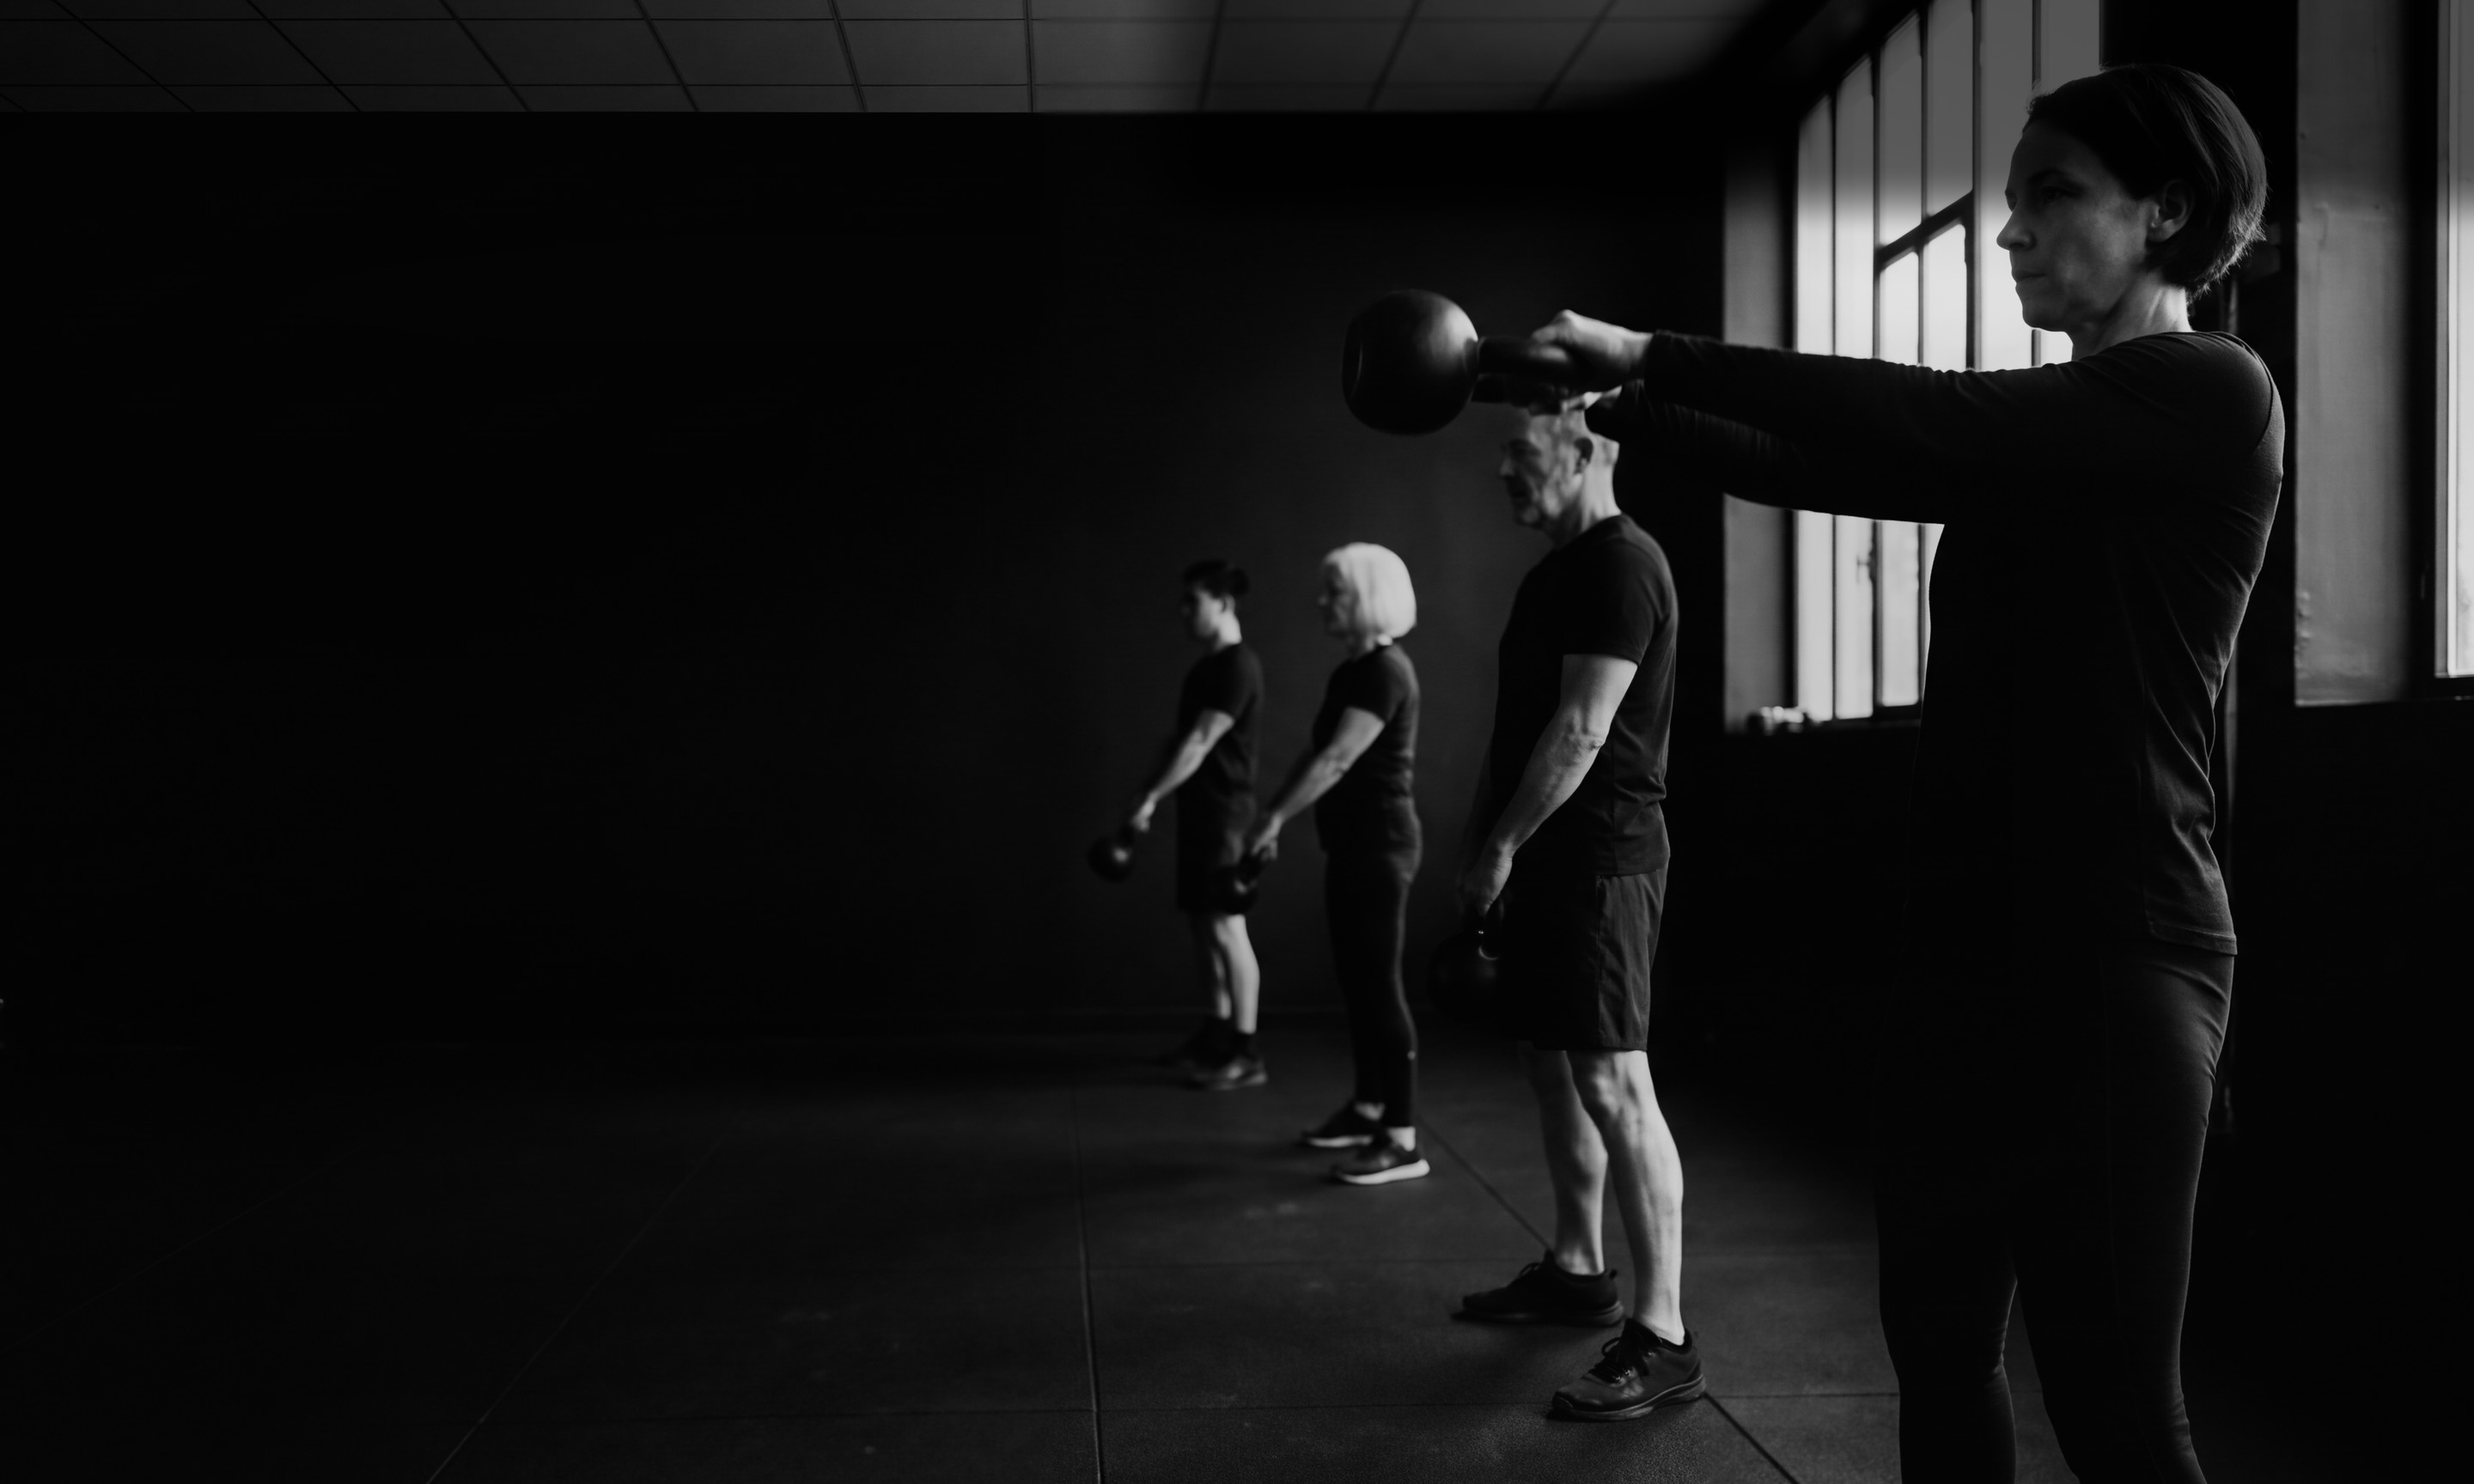
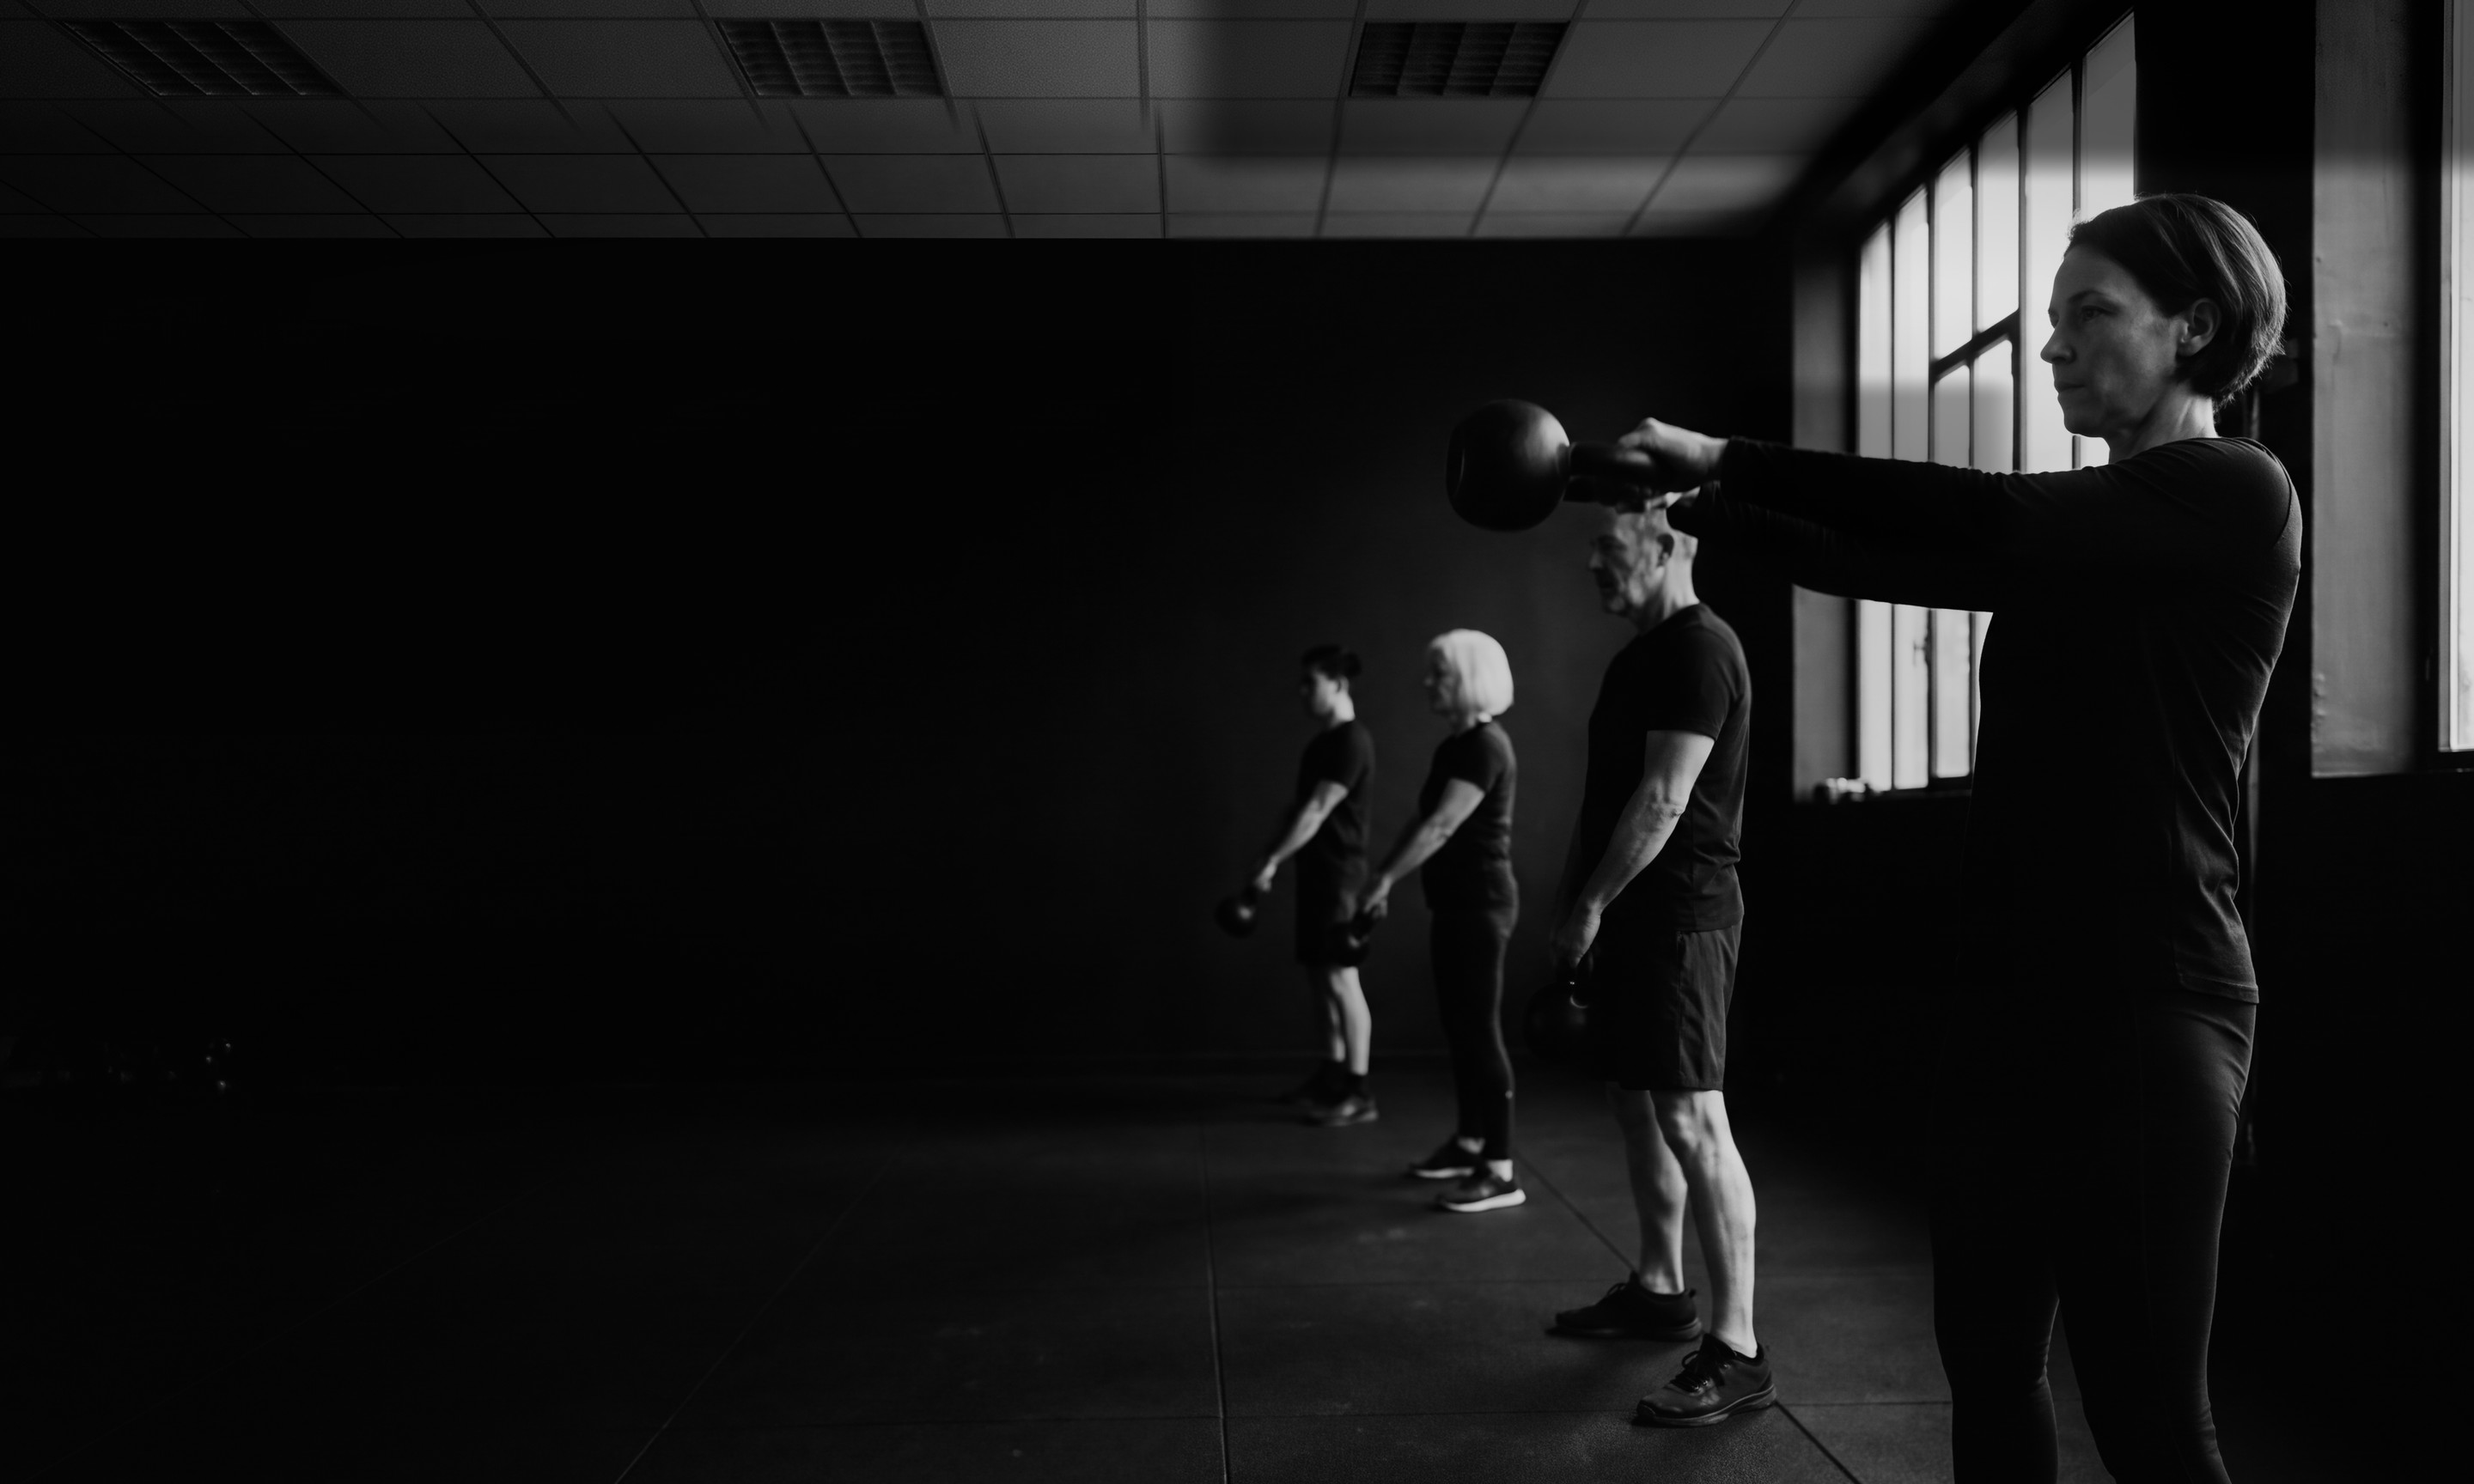
art(v2): couverture agrandie par le haut, la tête de la coach sort de l'en-tête
Le bouton « Réserve ta place » de l'en-tête coiffait le crâne de la
coach (constat 12). La plaque est agrandie, sans toucher au CSS : 175 px
de plafond en haut et 292 px réels du brut à gauche, rien coupé en bas.

- art/v2/extend.py compose un brut étendu : les pixels du brut partout
  où il en a, la bande du plafond venue de l'outpaint Higgsfield (deux
  passes, art/v2/manifest.json), recalée (--recaler) et ramenée aux
  tons du brut.
- grade.py lit ce brut (Plate.raw) ; deux brûlages documentés : le haut
  sous l'en-tête et le bas des carreaux sous « CUN » (contour citron
  sous 3:1 sur 0,1 % de ses pixels à 1280 × 800, 0 % à 1440, 1920, 390).
- Toutes les plaques passent grade.py --check.

Claude-Session: https://claude.ai/code/session_01AhYA5krWXo9diKkGLVMb6D

diff --git a/art/v2/extend.py b/art/v2/extend.py
@@ -1,0 +1,176 @@
+"""
+Agrandissement de la plaque de couverture par le haut (brief §3.2 : « sinon
+régénérer l'image ») : le crâne de la coach passait sous l'en-tête et le bouton
+« Réserve ta place » la coiffait.
+
+    python3 art/v2/extend.py <dossier-des-PNG-bruts> [--recaler <ancienne-plaque.jpg>]
+    python3 art/v2/grade.py <dossier-des-PNG-bruts> --only cap-couverture
+
+`--recaler` recherche l'échelle et le décalage de l'extension sur l'ancienne
+plaque (comparaison des gradients, de 1/4 à la pleine définition) et les affiche :
+ce sont les constantes S, OX, OY ci-dessous.
+
+Entrées, dans le dossier des bruts (non versionné, comme les autres bruts) :
+- cap-couverture.png : le brut Higgsfield d'origine (5504 × 3072) ;
+- cap-couverture.outpaint.png : la plaque livrée (art/masters/v2/cap-couverture.jpg,
+  avant agrandissement) étendue par l'outpaint de Higgsfield, en deux passes :
+  5:3 vers 4:3, puis 4:3 vers 16:9 (art/v2/manifest.json).
+
+Sortie : cap-couverture.etendu.png, que grade.py lit à la place du brut. Les
+pixels du brut sont gardés partout où il en a (y compris ses 300 px réels à gauche
+de l'ancien cadre) ; l'extension ne fournit que la bande du plafond, au-dessus,
+ramenée aux tons du brut (correspondance de quantiles sur la zone commune) et
+fondue sur 96 px. Le cadre final garde la plaque en 5:3 : 175 px de plafond en
+haut, 292 px à gauche (unités de l'ancienne plaque 2880 × 1728), rien coupé en bas.
+"""
+from __future__ import annotations
+
+import sys
+from pathlib import Path
+
+import numpy as np
+from PIL import Image, ImageFilter
+
+LUMA = np.array([0.2126, 0.7152, 0.0722])
+
+
+def to_linear(c):
+    return np.where(c <= 0.04045, c / 12.92, ((c + 0.055) / 1.055) ** 2.4)
+
+
+def to_srgb(y):
+    return np.where(y <= 0.0031308, 12.92 * y, 1.055 * np.power(np.clip(y, 0, 1), 1 / 2.4) - 0.055)
+
+
+# Ancienne plaque dans le brut : crop_box(5504, 3072, inset 92, 5:3, focal (0,80 ; 0,45)).
+OLD_BOX = (599, 92, 5412, 2980)
+OLD_SIZE = (2880, 1728)
+# Extension recalée sur l'ancienne plaque (--recaler, à 1 px près) :
+# ext_x = OX + S · plaque_x, ext_y = OY + S · plaque_y.
+S, OX, OY = 0.7426, 430, 179
+# Ajouts, en pixels de l'ancienne plaque.
+TOP, LEFT = 175, 292
+# Fondu entre l'extension et le brut, en pixels du brut, au-dessus du cadre d'origine.
+FEATHER = 96
+
+
+def compose(raw_dir: Path) -> Path:
+    raw = np.asarray(Image.open(raw_dir / "cap-couverture.png").convert("RGB"), dtype=np.float64) / 255
+    ext_img = Image.open(raw_dir / "cap-couverture.outpaint.png").convert("L")
+    rh, rw = raw.shape[:2]
+    k = (OLD_BOX[2] - OLD_BOX[0]) / OLD_SIZE[0]  # pixels du brut par pixel de plaque
+
+    # Cadre voulu, dans le brut, puis la marge que grade.py rognera (3 % du petit côté).
+    fw = round((OLD_SIZE[0] + LEFT) * k)
+    fh = round((OLD_SIZE[1] + TOP) * k)
+    margin = round(0.03 * fh)
+    while margin != round(0.03 * (fh + 2 * margin)):  # inset de grade.py sur le canevas
+        margin = round(0.03 * (fh + 2 * margin))
+    x0 = OLD_BOX[0] - round(LEFT * k) - margin
+    y0 = OLD_BOX[1] - round(TOP * k) - margin
+    cw, ch = fw + 2 * margin, fh + 2 * margin
+
+    # Extension, rééchantillonnée dans la géométrie du canevas (unités du brut).
+    # Canevas (cx, cy) → plaque ((x0 + cx − OLD_BOX[0]) / k, …) → extension.
+    scale = S / k
+    ex0 = OX + (x0 - OLD_BOX[0]) / k * S
+    ey0 = OY + (y0 - OLD_BOX[1]) / k * S
+    ext = ext_img.transform(
+        (cw, ch), Image.AFFINE, (scale, 0, ex0, 0, scale, ey0), resample=Image.BICUBIC
+    )
+    ext = np.asarray(ext, dtype=np.float64) / 255
+
+    # Brut dans le canevas (gris pour la correspondance des tons, couleur pour la sortie).
+    canvas = np.zeros((ch, cw, 3))
+    have = np.zeros((ch, cw), dtype=bool)
+    sx0, sy0 = max(x0, 0), max(y0, 0)
+    sx1, sy1 = min(x0 + cw, rw), min(y0 + ch, rh)
+    canvas[sy0 - y0:sy1 - y0, sx0 - x0:sx1 - x0] = raw[sy0:sy1, sx0:sx1]
+    have[sy0 - y0:sy1 - y0, sx0 - x0:sx1 - x0] = True
+
+    # Tons : quantiles de l'extension ramenés à ceux du brut, sur l'ancienne plaque.
+    oy0, oy1 = OLD_BOX[1] - y0, OLD_BOX[3] - y0
+    ox0, ox1 = OLD_BOX[0] - x0, OLD_BOX[2] - x0
+    raw_l = to_srgb(to_linear(canvas[oy0:oy1, ox0:ox1]) @ LUMA).ravel()  # comme grade_nuit
+    ext_l = ext[oy0:oy1, ox0:ox1].ravel()
+    qs = np.linspace(0, 100, 257)
+    mapped = np.interp(ext, np.percentile(ext_l, qs), np.percentile(raw_l, qs))
+    fill = np.repeat(mapped[..., None], 3, axis=2)
+
+    # Le brut partout où il existe, l'extension au-dessus, fondue sur FEATHER px
+    # depuis le haut du brut (sa première ligne réelle), et sur ses bords manquants.
+    alpha = have.astype(np.float64)
+    top_rows = np.clip((np.arange(ch) - (sy0 - y0)) / FEATHER, 0, 1)
+    alpha *= top_rows[:, None]
+    alpha = np.asarray(
+        Image.fromarray((alpha * 255).astype(np.uint8)).filter(ImageFilter.GaussianBlur(2)),
+        dtype=np.float64,
+    ) / 255
+    alpha = np.where(have, alpha, 0)[..., None]
+    out = canvas * alpha + fill * (1 - alpha)
+
+    target = raw_dir / "cap-couverture.etendu.png"
+    Image.fromarray((np.clip(out, 0, 1) * 255).round().astype(np.uint8)).save(target)
+    print(f"{target}  {cw} × {ch}  (cadre {fw} × {fh}, marge {margin})")
+    return target
+
+
+def _grad(a: np.ndarray) -> np.ndarray:
+    return np.abs(np.diff(a, axis=1))[:-1, :] + np.abs(np.diff(a, axis=0))[:, :-1]
+
+
+def _search(old: Image.Image, ext: Image.Image, scales, oys, oxs, f: int, keep: int = 1):
+    """Les `keep` meilleurs (erreur, s, ox, oy) : ext[oy:, ox:] ≈ old · s, comparés à 1/f."""
+    eg = _grad(np.asarray(ext.resize((round(ext.width / f), round(ext.height / f)), Image.LANCZOS), dtype=np.float32))
+    found = []
+    for s in scales:
+        w, h = round(old.width * s / f), round(old.height * s / f)
+        og = _grad(np.asarray(old.resize((w, h), Image.LANCZOS), dtype=np.float32))
+        og = og / (og.mean() + 1e-6)
+        for oy in oys:
+            for ox in oxs:
+                y, x = round(oy / f), round(ox / f)
+                if x < 0 or y < 0 or x + og.shape[1] > eg.shape[1] or y + og.shape[0] > eg.shape[0]:
+                    continue
+                p = eg[y:y + og.shape[0], x:x + og.shape[1]]
+                found.append((float(np.mean(np.abs(p / (p.mean() + 1e-6) - og))), float(s), ox, oy))
+    found.sort()
+    # Un candidat par voisinage : les suivants doivent différer d'au moins 24 px ou 1 %.
+    picked = []
+    for c in found:
+        if all(abs(c[2] - d[2]) > 24 or abs(c[3] - d[3]) > 24 or abs(c[1] - d[1]) > 0.01 for d in picked):
+            picked.append(c)
+        if len(picked) == keep:
+            break
+    return picked
+
+
+def recaler(raw_dir: Path, old_plate: Path) -> tuple[float, int, int]:
+    """Échelle et décalage de l'extension : grille grossière, puis affinage de 6 départs."""
+    old = Image.open(old_plate).convert("L")
+    ext = Image.open(raw_dir / "cap-couverture.outpaint.png").convert("L")
+    s_max = min(ext.width / old.width, ext.height / old.height)
+    starts = _search(old, ext, np.arange(s_max * 0.6, s_max, 0.004),
+                     range(0, ext.height // 2, 8), range(0, ext.width // 2, 8), 8, keep=6)
+    best = None
+    for _, s, ox, oy in starts:
+        (c,) = _search(old, ext, np.arange(s - 0.006, s + 0.0061, 0.002),
+                       range(oy - 16, oy + 17, 4), range(ox - 16, ox + 17, 4), 4)
+        _, s, ox, oy = c
+        (c,) = _search(old, ext, np.arange(s - 0.002, s + 0.00201, 0.0005),
+                       range(oy - 4, oy + 5, 2), range(ox - 4, ox + 5, 2), 2)
+        _, s, ox, oy = c
+        (c,) = _search(old, ext, np.arange(s - 0.0005, s + 0.00051, 0.00025),
+                       range(oy - 2, oy + 3), range(ox - 2, ox + 3), 1)
+        if best is None or c[0] < best[0]:
+            best = c
+    _, s, ox, oy = best
+    print(f"S, OX, OY = {s:.4f}, {ox}, {oy}  (écart {best[0]:.3f})")
+    return s, ox, oy
+
+
+if __name__ == "__main__":
+    if "--recaler" in sys.argv:
+        recaler(Path(sys.argv[1]), Path(sys.argv[sys.argv.index("--recaler") + 1]))
+    else:
+        compose(Path(sys.argv[1]))

diff --git a/art/v2/grade.py b/art/v2/grade.py
@@ -83,6 +83,11 @@ class Plate:
     zones: tuple[Zone, ...] = ()
     crops: tuple[Crop, ...] = field(default_factory=tuple)
     burns: tuple[Burn, ...] = ()
+    raw: str | None = None  # nom du PNG brut, s'il diffère du master (art/v2/extend.py)
+
+    @property
+    def raw_name(self) -> str:
+        return f"{self.raw or self.master}.png"
 
     @property
     def target(self) -> Path:
@@ -92,15 +97,21 @@ class Plate:
 SCENE_TEXT = Zone("colonne de texte", 0, 0, 0.57, 1, 0.10, 0.6)
 
 PLATES = [
+    # Brut agrandi par le haut (art/v2/extend.py) : 175 px de plafond, le crâne de
+    # la coach sort de l'en-tête. Le cadre est le brut entier, moins sa marge.
     Plate(
-        "cap-couverture", (2880, 1728), (0.80, 0.45),
+        "cap-couverture", (2880, 1728), (0.5, 0.5),
+        raw="cap-couverture.etendu",
         zones=(
             Zone("en-tête", 0, 0, 1, 0.09, 0.10, 0.3),
             Zone("titre", 0, 0.31, 0.81, 0.66, 0.12, 0.4),
             Zone("texte", 0.10, 0.68, 0.55, 0.98, 0.10, 0.4),
         ),
-        # Haut des fenêtres sous l'en-tête transparent : brûlé, le plafond garde la nuit.
-        burns=(Burn(0.5, 0.0, 1.0, 0.11, 2.6, 0.05),),
+        # Haut des fenêtres et plafond sous l'en-tête transparent : brûlés, la nuit
+        # garde le haut ; le fondu s'arrête au-dessus du crâne (y ≈ 0,126). Puis le
+        # bas des carreaux, entre le bras et le profil : le haut de « CUN » y passe
+        # à 1280 × 800 (contour citron sous 3:1 sur 1,4 % de ses pixels sans lui).
+        burns=(Burn(0.5, 0.0, 1.0, 0.095, 2.6, 0.03), Burn(0.715, 0.27, 0.80, 0.36, 1.3, 0.02)),
         crops=(
             Crop("cap-couverture-mobile", 1 / 2, 0.86, zones=(
                 Zone("en-tête", 0, 0, 1, 0.08, 0.10),
@@ -180,7 +191,7 @@ def xmp_packet_cap(model: str) -> bytes:
 
 
 def produce(plate: Plate, raw: Path) -> dict:
-    src = np.asarray(Image.open(raw / f"{plate.master}.png").convert("RGB"), dtype=np.float64) / 255
+    src = np.asarray(Image.open(raw / plate.raw_name).convert("RGB"), dtype=np.float64) / 255
     h, w = src.shape[:2]
     inset = v1.rounded_corner_inset(src)
     left, top, right, bottom = v1.crop_box(w, h, inset, plate.size[0] / plate.size[1], plate.focal)
@@ -263,7 +274,7 @@ if __name__ == "__main__":
     for plate in PLATES:
         if only and plate.master not in only:
             continue
-        if not (raw / f"{plate.master}.png").exists():
+        if not (raw / plate.raw_name).exists():
             print(f"  ! brut absent : {plate.master}")
             continue
         report = produce(plate, raw)
